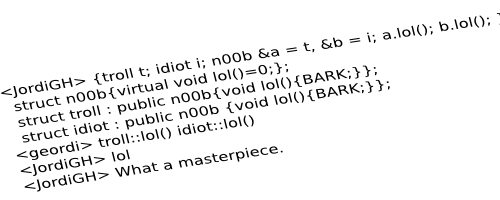
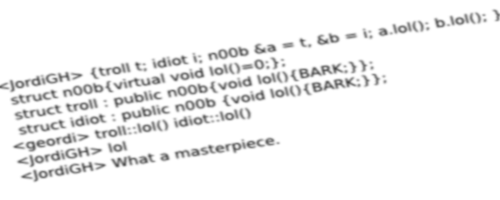
added blur to background-quote

Changed region(s): [[0.0, 0.03, 1.0, 0.96]]

diff --git a/static/main.css b/static/main.css
@@ -14,14 +14,14 @@ a img {
 }
 
 div#bg_bash {
-    position: absolute;
+    position: fixed;
     top: 20px;
     left: 10px;
     z-index: -20;
     background-image: url(images/bg_bash.png);
     width: 500px;
     height: 200px;
-    opacity: 0.4;
+    opacity: 0.3;
 }
 
 div#header1 {
